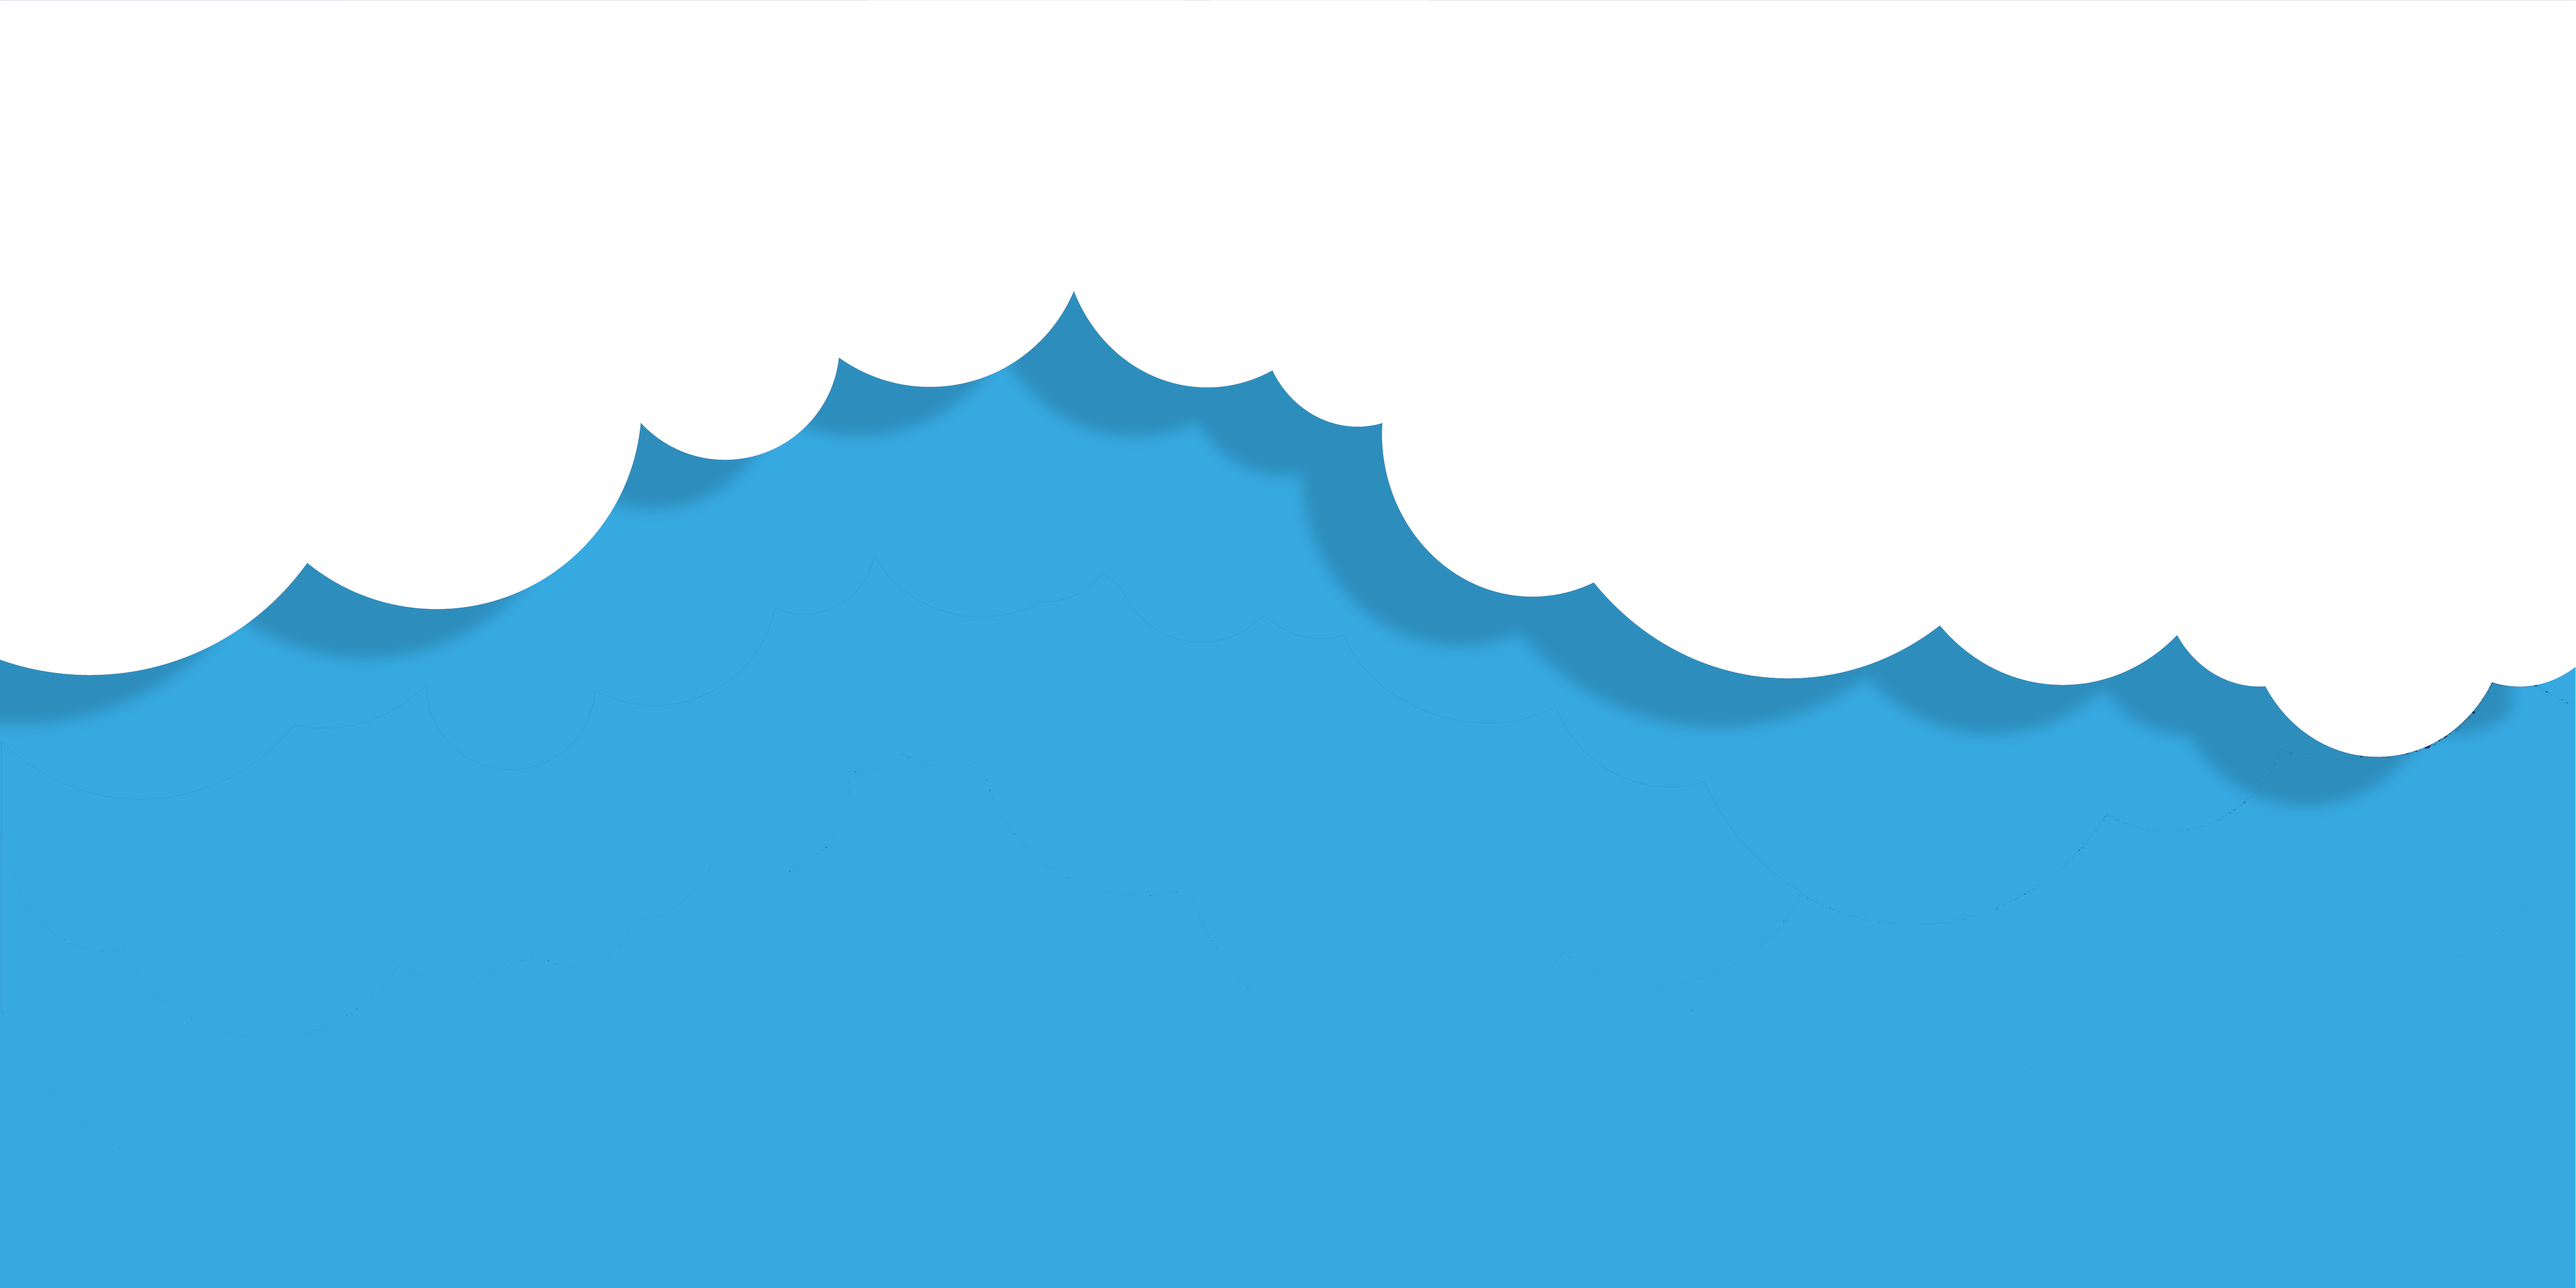
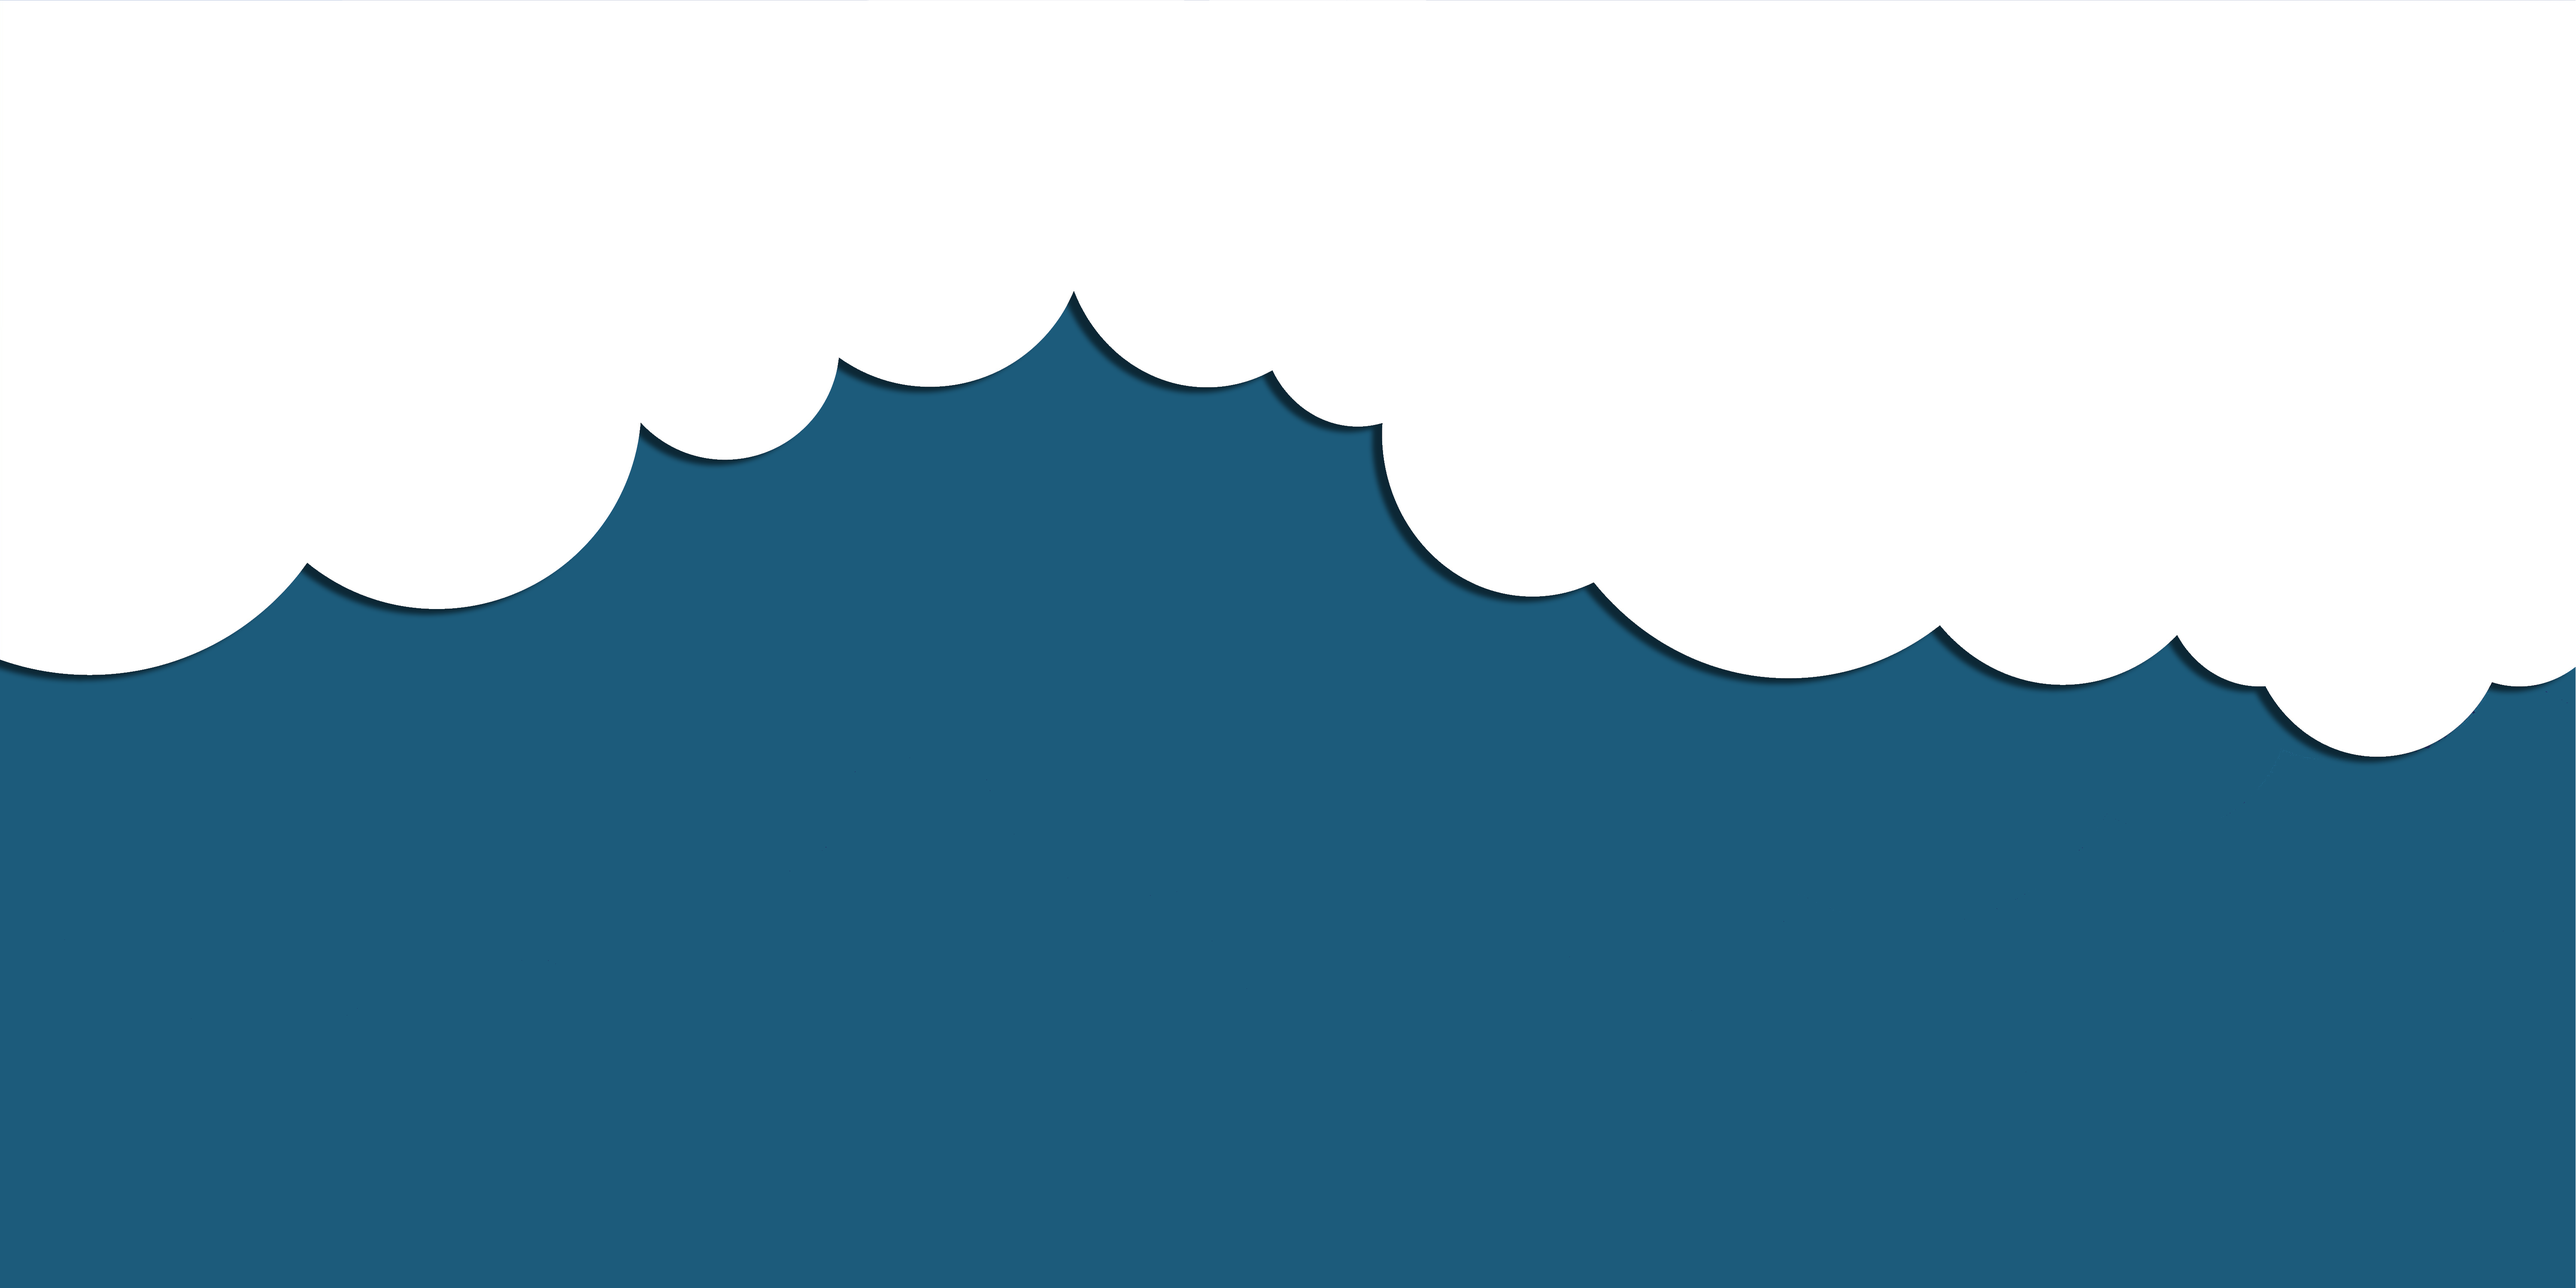
studio png

diff --git a/index.html b/index.html
@@ -25,38 +25,38 @@
                     <img class="banner-logo" src="./assets/overcast-sticker.png" alt="Overcast Logo">
                 </a>
             </div>
-        </div>
 
-        <nav class="navbar navbar-expand-lg">
-            <div class="container-fluid">
-                <button class="navbar-toggler" type="button" data-bs-toggle="collapse" data-bs-target="#home-nav-content" aria-controls="home-nav-content" aria-expanded="false" aria-label="Toggle navigation">
-                    <span class="navbar-toggler-icon"></span>
-                </button>
-
-                <div class="collapse navbar-collapse" id="home-nav-content">
-                    <ul class="navbar-nav">
-                        <li class="nav-item">
-                            <a class="nav-link" href="#about">ABOUT</a>
-                        </li>
-                        <li class="nav-item">
-                            <a class="nav-link" href="#gallery">GALLERY</a>
-                        </li>
-                        <li class="nav-item">
-                            <a class="nav-link" href="#events">EVENTS</a>
-                        </li>
-                        <li class="nav-item">
-                            <a class="nav-link" href="#merch">MERCH</a>
-                        </li>
-                        <li class="nav-item">
-                            <a class="nav-link" href="#contact">CONTACT US</a>
-                        </li>
-                        <li class="nav-item">
-                            <a class="nav-link" href="#another">ANOTHER</a>
-                        </li>
-                    </ul>
+            <nav class="navbar navbar-expand-lg">
+                <div class="container-fluid">
+                    <button class="navbar-toggler" type="button" data-bs-toggle="collapse" data-bs-target="#home-nav-content" aria-controls="home-nav-content" aria-expanded="false" aria-label="Toggle navigation">
+                        <span class="navbar-toggler-icon"></span>
+                    </button>
+    
+                    <div class="collapse navbar-collapse" id="home-nav-content">
+                        <ul class="navbar-nav">
+                            <li class="nav-item">
+                                <a class="nav-link" href="#about">ABOUT</a>
+                            </li>
+                            <li class="nav-item">
+                                <a class="nav-link" href="#gallery">GALLERY</a>
+                            </li>
+                            <li class="nav-item">
+                                <a class="nav-link" href="#events">EVENTS</a>
+                            </li>
+                            <li class="nav-item">
+                                <a class="nav-link" href="#merch">MERCH</a>
+                            </li>
+                            <li class="nav-item">
+                                <a class="nav-link" href="#contact">CONTACT US</a>
+                            </li>
+                            <li class="nav-item">
+                                <a class="nav-link" href="#another">ANOTHER</a>
+                            </li>
+                        </ul>
+                    </div>
                 </div>
-            </div>
-        </nav>
+            </nav>
+        </div>
     </header>
 
 
@@ -68,6 +68,7 @@
         <section id="about">
             <h1>About Us</h1>
             <p>Overcast was formed in 2020 by two sets of barbershopping siblings: Erin and Kate Butler, and Ryan and Jakob Reid. Since forming, Overcast has competed at various BHA regional competitions and recently attended their first BHA national competition. Here they took out the BHA national youth mixed gold medal as well as coming 5th place in the open competition. Looking towards the future, Overcast hopes to sharpen their performance skills, with a dream of one day attending the international BHS varsity quartet contest.</p>
+            <img src="./assets/overcast-studio-2.png">
         </section>
 
         <section id="events">

diff --git a/styles.css b/styles.css
@@ -11,7 +11,7 @@
     width: 15rem;
 
     position: absolute;
-    top: 100%;
+    top: 50%;
     left: 50%;
     transform: translate(-50%, -50%);
 }
@@ -58,6 +58,10 @@ img {
     color: #ffffff;
 }
 
+.navbar {
+    padding: 8rem 0 4rem 0 !important;
+}
+
 #about {
     background-color: #242424;
     color: #ffffff;
@@ -65,9 +69,9 @@ img {
 }
 
 #gallery {
+    text-align: center;
+    background-color: #1c5b7b;
     height: 40rem;
-    background-image: url('./assets/v1015-104a.jpg');
-    padding: 0;
 }
 
 #merch {
@@ -99,6 +103,11 @@ section {
 }
 
 iframe {
-    width: 100%;
+    width: 60%;
     height: 100%;
+}
+
+#about img {
+    width: 50%;
+    height: auto;
 }
